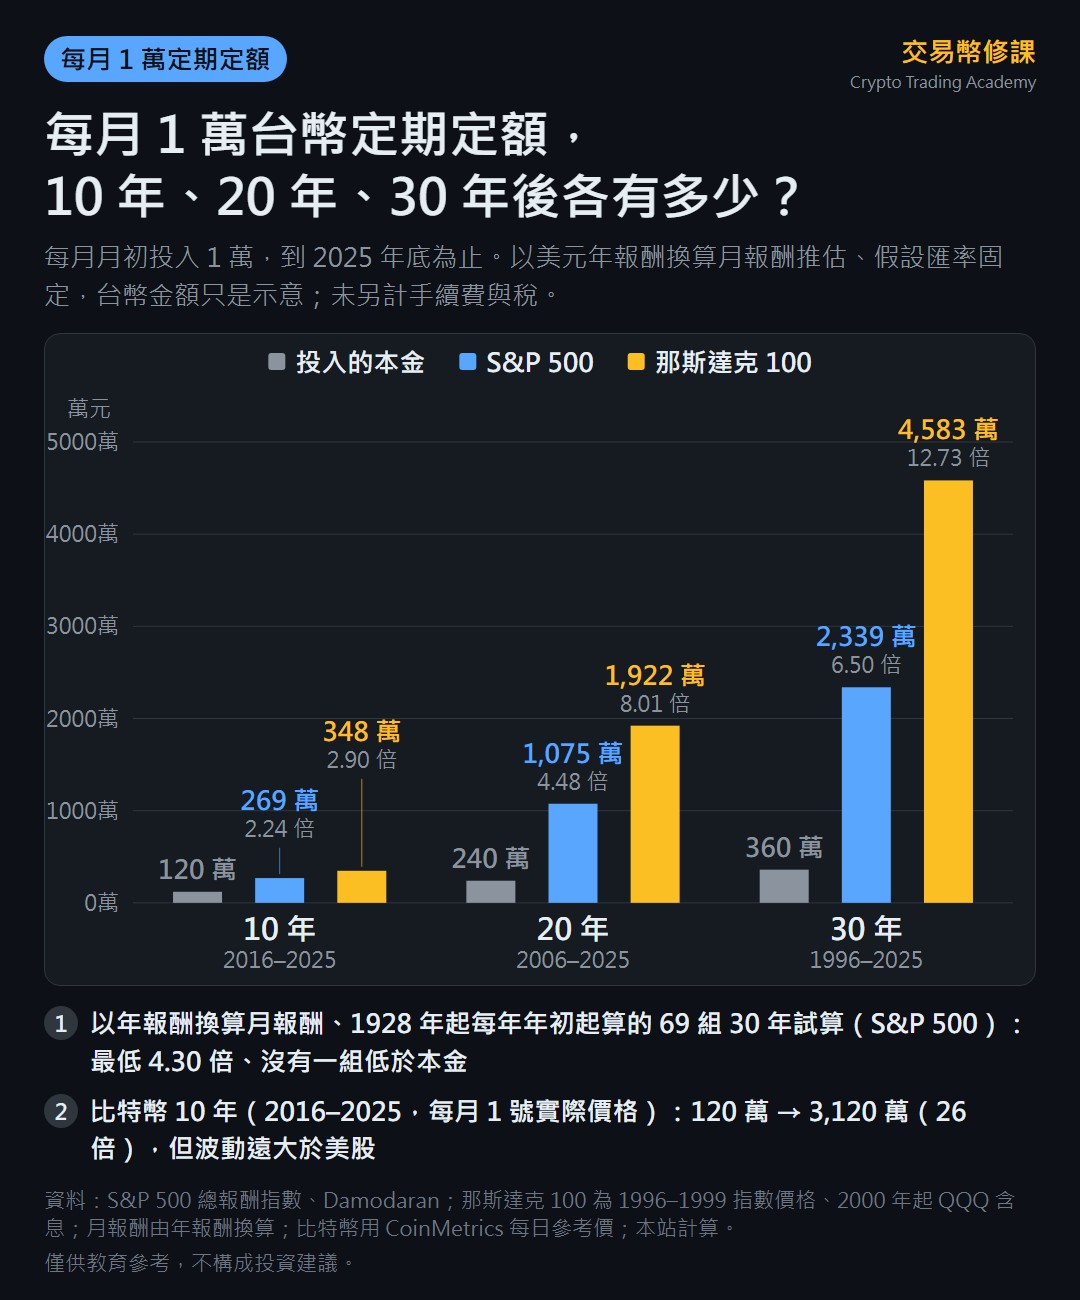
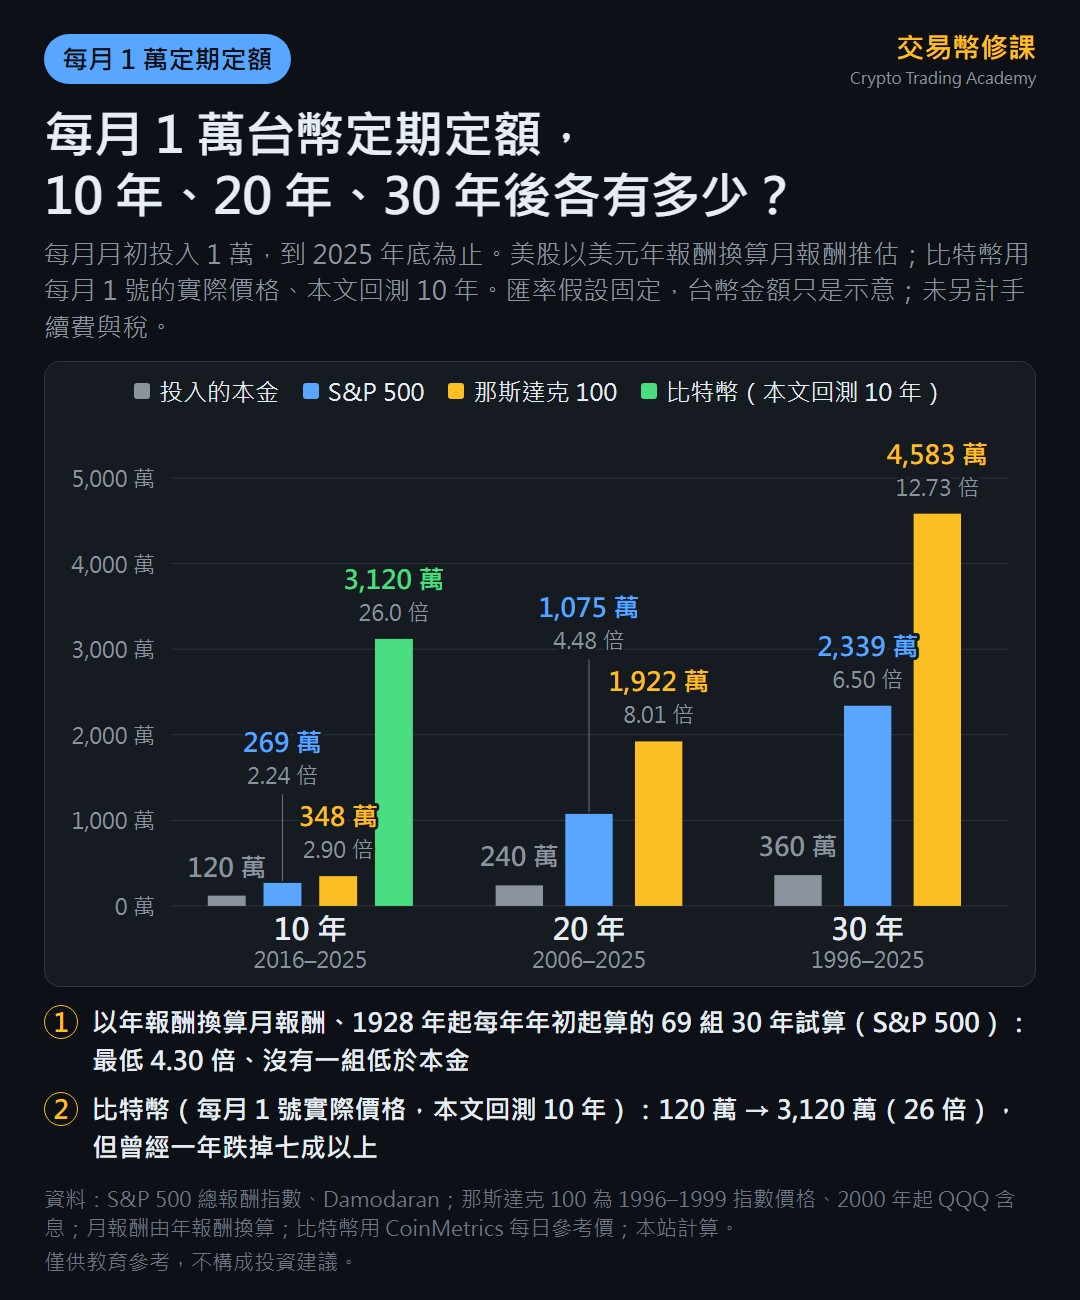
修文：穩健理財三種算法——加總覽圖（三種算法 × 三個市場）、成績單與定期定額加比特幣（訂閱路線兩家複審通過）

diff --git a/blog/steady-investing-30y-sp500-nasdaq-btc.html b/blog/steady-investing-30y-sp500-nasdaq-btc.html
@@ -21,7 +21,7 @@
   <meta property="og:url" content="https://crypto-trading-academy.com/blog/steady-investing-30y-sp500-nasdaq-btc.html">
   <meta property="og:site_name" content="交易幣修課 Crypto Trading Academy">
   <meta property="og:locale" content="zh_TW">
-  <meta property="og:image" content="https://crypto-trading-academy.com/blog/assets/sp500-ndx-30y-scorecard.jpg">
+  <meta property="og:image" content="https://crypto-trading-academy.com/blog/assets/three-methods-overview.jpg">
   <meta property="article:published_time" content="2026-10-21">
   <meta property="article:author" content="交易幣修課研究室">
 
@@ -33,7 +33,7 @@
     "description": "S&amp;P 500 在 1996–2025 年有 24 年賺、6 年賠：每年用固定 3 萬美元本金買賣，年報酬算術平均 +11.9%；同樣 3 萬一次投入不領出，30 年變約 57.7 萬美元；每月定期定額 1 萬台幣，30 年約 6.5 倍。附那斯達克 100、比特幣與每年領出 vs 全部複利的比較；歷史數據，不保證未來。",
     "datePublished": "2026-10-21",
     "dateModified": "2026-10-21",
-    "image": "https://crypto-trading-academy.com/blog/assets/sp500-ndx-30y-scorecard.jpg",
+    "image": "https://crypto-trading-academy.com/blog/assets/three-methods-overview.jpg",
     "author": {"@type": "Organization", "name": "交易幣修課研究室", "url": "https://crypto-trading-academy.com/"},
     "publisher": {"@type": "Organization", "name": "交易幣修課 Crypto Trading Academy", "url": "https://crypto-trading-academy.com/"},
     "mainEntityOfPage": {"@type": "WebPage", "@id": "https://crypto-trading-academy.com/blog/steady-investing-30y-sp500-nasdaq-btc.html"},
@@ -138,7 +138,7 @@
     <div class="max-w-3xl mx-auto px-4">
       <p class="text-amber-400 text-sm font-semibold tracking-wider uppercase mb-4">市場研究 ｜ 長期投資 × 複利 × 定期定額</p>
       <h1 class="text-3xl md:text-5xl font-bold leading-tight mb-6">與其高槓桿瞎操作，不如讓時間替你賺：<br class="hidden md:block"><span class="text-slate-400 text-2xl md:text-3xl">美股 30 年、比特幣 10 年，三種穩健理財算法的歷史數據</span></h1>
-      <p class="text-lg text-slate-400 mb-6">市場上從來不缺「一年翻十倍」的故事，但如果什麼技巧都不用，只是買進整個市場、耐心等待，結果會怎樣？我們用三種最簡單的理財算法——每年用固定 3 萬美元本金買賣一次、一次投入後全部複利、每月定期定額 1 萬台幣——把美股大盤 30 年、比特幣 10 年的歷史數據算給你看。</p>
+      <p class="text-lg text-slate-400 mb-6">市場上從來不缺「一年翻十倍」的故事，但如果什麼技巧都不用，只是持有美股指數或比特幣、照固定規則長期投資，結果會怎樣？我們用三種最簡單的理財算法——每年用固定 3 萬美元本金買賣一次、一次投入後全部複利、每月定期定額 1 萬台幣——把美股大盤 30 年、比特幣 10 年的歷史數據算給你看。</p>
       <div class="flex items-center gap-4 text-sm text-slate-500 mb-8">
         <span>📅 2026-10-21</span><span>•</span><span>⏱ 閱讀約 10 分鐘</span><span>•</span><span>✍ 交易幣修課研究室</span>
       </div>
@@ -157,6 +157,7 @@
   <li>每年 1/1 用 3 萬美元本金買進、12/31 賣出（獲利領出、虧損補足）：年報酬的算術平均 +11.9%，30 年累計淨收益約 10.7 萬美元。</li>
   <li>同樣 3 萬美元一次投入、不領出：30 年後約 57.7 萬美元（19.2 倍）。</li>
   <li>每月定期定額 1 萬台幣：10 年約 2.2 倍、20 年約 4.5 倍、30 年約 6.5 倍。</li>
+  <li>比特幣歷史較短，同樣每月 1 萬台幣定期定額 10 年（2016–2025）約 26 倍，但中途曾一年跌掉七成以上。</li>
 </ul>
 
     <ol>
@@ -165,10 +166,10 @@
 </ol>
 
     <figure class="rounded-2xl overflow-hidden border border-slate-800 shadow-2xl shadow-amber-400/10 my-8">
-        <a href="assets/sp500-ndx-30y-scorecard.jpg" data-mobile="assets/sp500-ndx-30y-scorecard-m.jpg" target="_blank" rel="noopener" aria-label="開啟原尺寸圖片">
-          <picture><source media="(max-width: 640px)" srcset="assets/sp500-ndx-30y-scorecard-m.jpg?v=1"><img src="assets/sp500-ndx-30y-scorecard.jpg?v=1" alt="年度報酬方格表：S&amp;P 500（含股息）與那斯達克 100 在 1996–2025 年每一年的報酬，綠色為賺錢年、紅色為賠錢年。S&amp;P 500 30 年裡 24 年賺、6 年賠，年報酬算術平均 +11.9%；那斯達克 100 24 年賺、6 年賠，算術平均 +19.2%；最差都是 2008 年（−37.0%／−41.7%）" class="w-full h-auto" loading="eager"></picture>
+        <a href="assets/three-methods-overview.jpg" data-mobile="assets/three-methods-overview-m.jpg" target="_blank" rel="noopener" aria-label="開啟原尺寸圖片">
+          <picture><source media="(max-width: 640px)" srcset="assets/three-methods-overview-m.jpg?v=2"><img src="assets/three-methods-overview.jpg?v=2" alt="總覽比較表：三種理財算法在 S&amp;P 500、那斯達克 100（1996–2025）與比特幣（2016–2025）的歷史成績。每年 3 萬美元本金獲利領出：累計淨收益 10.7 萬、17.2 萬、61.6 萬美元；3 萬一次投入不領出：57.7 萬、153.7 萬、611 萬美元；每月 1 萬台幣定期定額 10 年：269 萬、348 萬、3,120 萬；30 年：2,339 萬、4,583 萬（比特幣歷史不足）；賺錢年／賠錢年 24/6、24/6、7/3；最差一年 −37.0%、−41.7%、−73.5%；一次投入最深下跌 −37.6%、−73.3%、−73.5%" class="w-full h-auto" loading="eager"></picture>
         </a>
-        <figcaption class="bg-slate-900 text-slate-500 text-xs text-center py-3 px-4 italic leading-relaxed">美股大盤 30 年成績單：每年 1/1 買、12/31 賣。資料：S&amp;P 500 總報酬指數、Damodaran；那斯達克 100 為 1996–1999 指數價格、2000 年起 QQQ 含息；本站計算。<span class="not-italic text-slate-600"> · 圖看不清楚？點一下開原圖</span></figcaption>
+        <figcaption class="bg-slate-900 text-slate-500 text-xs text-center py-3 px-4 italic leading-relaxed">三種算法 × 三個市場總覽。美股為 1996–2025 年、比特幣為 2016–2025 年；美股定期定額以年報酬換算月報酬推估，比特幣定期定額採每月 1 日實際價格；匯率假設固定。歷史數據，不保證未來；本站計算。<span class="not-italic text-slate-600"> · 圖看不清楚？點一下開原圖</span></figcaption>
       </figure>
 
     <div class="insight-card my-8">
@@ -183,13 +184,24 @@
     <p>· <strong>年報酬＝年底對年底</strong>：試算用前一年最後一個交易日的收盤價，當作 1/1 投入的基準。以美元計價，沒有另計交易手續費、稅和匯率。資料截至 2025 年底。</p>
 </div>
 
-    <p>市場上從來不缺「一年翻十倍」的故事：高槓桿合約、追熱門題材、天天進進出出。但如果什麼技巧都不用，只是買進整個市場、耐心等待，結果會怎樣？我們用三種最簡單的理財算法，把美股大盤 30 年、比特幣 10 年的歷史數據，一筆一筆算給你看。</p>
+    <p>市場上從來不缺「一年翻十倍」的故事：高槓桿合約、追熱門題材、天天進進出出。但如果什麼技巧都不用，只是持有美股指數或比特幣，照固定規則長期投資，結果會怎樣？我們用三種最簡單的理財算法，把美股大盤 30 年、比特幣 10 年的歷史數據，一筆一筆算給你看。</p>
 
     <hr class="border-slate-800 my-10">
 
     <h2>一、算法一：每年 1/1 買、12/31 賣，固定用 3 萬美元本金</h2>
 
     <p>規則很簡單：<strong>每年 1 月 1 日用 3 萬美元本金買進，12 月 31 日全部賣出。</strong> 賺的錢領出來，賠的錢隔年補足，下一年一樣用 3 萬美元重新開始——不是每年另外再拿出新的 3 萬。這就像每年結一次帳，把當年的獲利當成「年終獎金」領出來。</p>
+
+    <p>下面這張成績單，把 S&amp;P 500、那斯達克 100 和比特幣每一年的報酬並排在一起（比特幣從 2011 年才有完整的年度資料）：</p>
+
+    <figure class="rounded-2xl overflow-hidden border border-slate-800 shadow-2xl shadow-amber-400/10 my-8">
+        <a href="assets/sp500-ndx-30y-scorecard.jpg" data-mobile="assets/sp500-ndx-30y-scorecard-m.jpg" target="_blank" rel="noopener" aria-label="開啟原尺寸圖片">
+          <picture><source media="(max-width: 640px)" srcset="assets/sp500-ndx-30y-scorecard-m.jpg?v=2"><img src="assets/sp500-ndx-30y-scorecard.jpg?v=2" alt="年度報酬方格表：S&amp;P 500（含股息）、那斯達克 100 與比特幣在 1996–2025 年每一年的報酬，綠色為賺錢年、紅色為賠錢年；比特幣從 2011 年起有完整年度資料（2011–2025 年 11 年賺、4 年賠，最差 2018 年 −73.5%）。S&amp;P 500 30 年裡 24 年賺、6 年賠，年報酬算術平均 +11.9%；那斯達克 100 24 年賺、6 年賠，算術平均 +19.2%；最差都是 2008 年（−37.0%／−41.7%）" class="w-full h-auto" loading="lazy"></picture>
+        </a>
+        <figcaption class="bg-slate-900 text-slate-500 text-xs text-center py-3 px-4 italic leading-relaxed">年度成績單：每年 1/1 買、12/31 賣。資料：S&amp;P 500 總報酬指數、Damodaran；那斯達克 100 為 1996–1999 指數價格、2000 年起 QQQ 含息；比特幣為 CoinMetrics；本站計算。<span class="not-italic text-slate-600"> · 圖看不清楚？點一下開原圖</span></figcaption>
+      </figure>
+
+    <p>美股兩個指數的 30 年明細（比特幣 2016–2025 的明細見下方）：</p>
 
     <div class="table-wrap">
 <table class="data-table">
@@ -510,7 +522,7 @@
 
     <p>（「年複合報酬率」是把每年的漲跌連乘起來，換算成平均每年幾 %；前一年賺到的錢，下一年繼續跟著漲跌，這就是複利。）</p>
 
-    <p>比特幣如果從 2015 年底投入 3 萬美元、放到 2025 年底，會變成約 611 萬美元（203.7 倍，年複合約 70%）；但中途 2017 年底到 2018 年底，帳面一年少了 73.5%，而且 2025 年底還低於 2024 年底的高點。如果從 2010 年底開始算，數字會大到不切實際——那時比特幣市場非常小，實際上不可能用這種價格買到那麼多。</p>
+    <p>比特幣如果從 2015 年底投入 3 萬美元、放到 2025 年底，會變成約 611 萬美元（203.7 倍，年複合約 70%）；但中途 2017 年底到 2018 年底，帳面一年少了 73.5%，而且 2025 年底還低於 2024 年底的高點。如果從 2010 年底開始按參考價回推，數字會非常大；但當時市場規模和流動性都很有限，沒有考慮滑價和實際成交限制的結果，未必能實現。</p>
 
     <p>這張表告訴我們兩件事：<strong>在這 30 年的美股資料裡，下跌最後都漲回來了；但「長期」可能比你想的久。</strong> 那斯達克 100 從 2000 年網路泡沫破裂後，花了 14 年才回到高點（以年底的含息報酬計）。能撐過這段的人，才拿得到後面的果實。</p>
 
@@ -522,7 +534,7 @@
 
     <figure class="rounded-2xl overflow-hidden border border-slate-800 shadow-2xl shadow-amber-400/10 my-8">
         <a href="assets/lump-vs-withdraw-30y.jpg" data-mobile="assets/lump-vs-withdraw-30y-m.jpg" target="_blank" rel="noopener" aria-label="開啟原尺寸圖片">
-          <picture><source media="(max-width: 640px)" srcset="assets/lump-vs-withdraw-30y-m.jpg?v=1"><img src="assets/lump-vs-withdraw-30y.jpg?v=1" alt="兩格折線圖：1995 年底投入 3 萬美元，不領出全部複利 vs 每年領出獲利（以本金加累計淨收益呈現；累計淨收益為領出的獲利減去虧損補款）。S&amp;P 500 複利到 2025 年底約 57.7 萬美元、每年領出約 13.7 萬；那斯達克 100 複利約 153.7 萬、每年領出約 20.2 萬" class="w-full h-auto" loading="lazy"></picture>
+          <picture><source media="(max-width: 640px)" srcset="assets/lump-vs-withdraw-30y-m.jpg?v=2"><img src="assets/lump-vs-withdraw-30y.jpg?v=2" alt="兩格折線圖：1995 年底投入 3 萬美元，不領出全部複利 vs 每年領出獲利（以本金加累計淨收益呈現；累計淨收益為領出的獲利減去虧損補款）。S&amp;P 500 複利到 2025 年底約 57.7 萬美元、每年領出約 13.7 萬；那斯達克 100 複利約 153.7 萬、每年領出約 20.2 萬" class="w-full h-auto" loading="lazy"></picture>
         </a>
         <figcaption class="bg-slate-900 text-slate-500 text-xs text-center py-3 px-4 italic leading-relaxed">同樣 3 萬美元放 30 年：全部複利是每年領出的約 4.2 倍（S&amp;P 500）與 7.6 倍（那斯達克 100）；代價是中途要撐過下跌。年底對年底，領出的現金不計利息，未另計手續費與稅；本站計算。<span class="not-italic text-slate-600"> · 圖看不清楚？點一下開原圖</span></figcaption>
       </figure>
@@ -558,7 +570,7 @@
 
     <p>原因很簡單：<strong>複利是「賺來的錢，也繼續去幫你賺錢」。</strong> 每年把獲利領出來，就像每年把剛長大的果樹砍掉一部分；收益留在裡面，後續的報酬就能作用在更大的本金上——當然，遇到下跌時，累積的資產也會一起承受損失。</p>
 
-    <p>巴菲特也算過類似的題目。他在 2012 年度的致股東信裡（2013 年發布），用一家假設的公司比較兩種做法：一種是每年把三分之一的盈餘發成股利；另一種是盈餘全部留在公司繼續滾，股東需要現金時，每年自己賣掉約 3.2% 的持股。在他設定的條件下（公司每年賺淨值的 12%、股票能用淨值的 125% 賣出），算到第 10 年，第二種做法手上股票的價值多了約 4%，第 10 年領到的現金也多了約 4%。</p>
+    <p>巴菲特也算過類似的題目。他在 2012 年度的致股東信裡（2013 年發布），用一家假設的公司比較兩種做法：一種是每年把三分之一的盈餘發成股利；另一種是盈餘全部留在公司繼續滾，股東需要現金時，每年自己賣掉約 3.2% 的持股。在他設定的條件下（公司每年賺淨值的 12%、股票能用淨值的 125% 賣出），算到第 10 年，第二種做法手上股票的價值多了約 4%，10 年後每年領到的現金也多了約 4%。</p>
 
     <p>他還提到，發股利等於強迫所有股東都領同樣比例的錢，而且在當時美國的稅制下，股利的稅負通常比較重。巴菲特的兩種做法其實都有領現金，和本文「完全不領出」的比較不完全一樣，但道理相通：<strong>在他的假設和本文的歷史樣本裡，讓收益留在裡面繼續滾，結果都比較好。</strong></p>
 
@@ -572,9 +584,9 @@
 
     <figure class="rounded-2xl overflow-hidden border border-slate-800 shadow-2xl shadow-amber-400/10 my-8">
         <a href="assets/dca-10k-10-20-30y.jpg" data-mobile="assets/dca-10k-10-20-30y-m.jpg" target="_blank" rel="noopener" aria-label="開啟原尺寸圖片">
-          <picture><source media="(max-width: 640px)" srcset="assets/dca-10k-10-20-30y-m.jpg?v=1"><img src="assets/dca-10k-10-20-30y.jpg?v=1" alt="分組長條圖：每月定期定額 1 萬台幣到 2025 年底。10 年投入 120 萬，S&amp;P 500 約 269 萬、那斯達克 100 約 348 萬；20 年投入 240 萬，約 1,075 萬、1,922 萬；30 年投入 360 萬，約 2,339 萬、4,583 萬" class="w-full h-auto" loading="lazy"></picture>
+          <picture><source media="(max-width: 640px)" srcset="assets/dca-10k-10-20-30y-m.jpg?v=2"><img src="assets/dca-10k-10-20-30y.jpg?v=2" alt="分組長條圖：每月定期定額 1 萬台幣到 2025 年底。10 年投入 120 萬，S&amp;P 500 約 269 萬、那斯達克 100 約 348 萬；20 年投入 240 萬，約 1,075 萬、1,922 萬；30 年投入 360 萬，約 2,339 萬、4,583 萬；比特幣本文回測 10 年，約 3,120 萬（26 倍）" class="w-full h-auto" loading="lazy"></picture>
         </a>
-        <figcaption class="bg-slate-900 text-slate-500 text-xs text-center py-3 px-4 italic leading-relaxed">每月 1 萬台幣定期定額 10／20／30 年。以美元年報酬推估、假設匯率固定，台幣金額只是示意；月報酬由年報酬換算，未另計手續費與稅；本站計算。<span class="not-italic text-slate-600"> · 圖看不清楚？點一下開原圖</span></figcaption>
+        <figcaption class="bg-slate-900 text-slate-500 text-xs text-center py-3 px-4 italic leading-relaxed">每月 1 萬台幣定期定額 10／20／30 年（比特幣本文回測 10 年，用每月 1 號實際價格）。美股以美元年報酬換算月報酬推估、匯率假設固定，台幣金額只是示意；未另計手續費與稅；本站計算。<span class="not-italic text-slate-600"> · 圖看不清楚？點一下開原圖</span></figcaption>
       </figure>
 
     <div class="table-wrap">
@@ -584,6 +596,7 @@
     <th>投入本金</th>
     <th>S&amp;P 500</th>
     <th>那斯達克 100</th>
+    <th>比特幣</th>
   </tr></thead>
   <tbody>
   <tr>
@@ -591,30 +604,33 @@
     <td>120 萬</td>
     <td>約 269 萬（2.24 倍）</td>
     <td>約 348 萬（2.90 倍）</td>
+    <td><strong>約 3,120 萬（26.0 倍）</strong></td>
   </tr>
   <tr>
     <td>20 年（2006–2025）</td>
     <td>240 萬</td>
     <td>約 1,075 萬（4.48 倍）</td>
     <td>約 1,922 萬（8.01 倍）</td>
+    <td>—（歷史不足）</td>
   </tr>
   <tr>
     <td>30 年（1996–2025）</td>
     <td>360 萬</td>
     <td><strong>約 2,339 萬（6.50 倍）</strong></td>
     <td><strong>約 4,583 萬（12.73 倍）</strong></td>
+    <td>—（歷史不足）</td>
   </tr>
   </tbody>
 </table>
 </div>
 
-    <p>（以美元年報酬推估，假設匯率固定，台幣金額只是示意；每月月初投入，月報酬由年報酬換算；沒有另計手續費與稅。）</p>
+    <p>（美股以美元年報酬推估，每月月初投入，月報酬由年報酬換算；比特幣用每月 1 號的實際參考價買進、2025 年 12 月 31 日估值。匯率假設固定，台幣金額只是示意；沒有另計手續費與稅。）</p>
 
     <p>換算成「資金加權年化報酬」——也就是考慮每一筆錢投入的金額和時間，算出平均每年幾 %——依序對應 10／20／30 年：S&amp;P 500 為 15.4%、13.3%、10.6%；那斯達克 100 為 20.2%、18.0%、14.0%。</p>
 
     <p>而且這不是只有最近 30 年才成立。用同樣的方法（年報酬換算成月報酬），試算 S&amp;P 500 從 1928 年起、每一年年初開始的 69 組「連續 30 年每月定期定額」，<strong>最低的一組（1952–1981）也有本金的 4.30 倍，中間值是 6.93 倍，沒有任何一組低於本金</strong>（名目金額，未扣通膨）。這是試算，不是真實的逐月價格回測，也沒有涵蓋從每個月份起算的情況；這 69 組彼此重疊，不能當成 69 次獨立的驗證。</p>
 
-    <p>比特幣如果從 2016 年開始，每月 1 號用當天的價格買 1 萬台幣，到 2025 年底投入 120 萬，會變成約 3,120 萬（26 倍）——但這 10 年裡，它曾經兩次一年跌掉六到七成。</p>
+    <p>比特幣的 10 年（2016–2025）：每月 1 號用當天的價格買 1 萬台幣，投入 120 萬，到 2025 年底約 3,120 萬（26 倍），換算資金加權年化約 62%。數字很驚人，但這 10 年裡，它一次一年跌掉七成以上、一次跌掉六成以上（2018 年 −73.5%、2022 年 −64.4%）；而且本文的比特幣定期定額只回測 2016–2025 這 10 年，不能據此推算 20、30 年的結果。</p>
 
     <p>定期定額的好處是：<strong>不用猜時機。</strong> 市場跌的時候，同樣的 1 萬塊買到更多；市場漲回來時，這些便宜買到的部分，就是最大的功臣。但它不保證獲利，也不會消除標的本身的風險。</p>
 
@@ -639,7 +655,7 @@
 
     <ol>
   <li><strong>先留好生活預備金，再談投資。</strong> 近期要用的錢，不要放進會波動的市場。</li>
-  <li><strong>選一種你做得到的方法，然後長期執行。</strong> 每年用固定本金投入一次、一次投入後全部複利、或每月定期定額，都可以；重點是能做 10 年、20 年，而不是做 3 個月。</li>
+  <li><strong>選一種你做得到的方法，然後長期執行。</strong> 每年用固定本金投入一次（要預留虧損年度補足本金的錢）、一次投入後全部複利、或每月定期定額，都可以；重點是能做 10 年、20 年，而不是做 3 個月。</li>
   <li><strong>事先想好下跌時怎麼辦。</strong> 賠錢的年份一定會來（過去 30 年裡有 6 年），不要用借來的錢投資，也不要開高槓桿，讓自己在下跌時還睡得著。</li>
 </ol>
 
